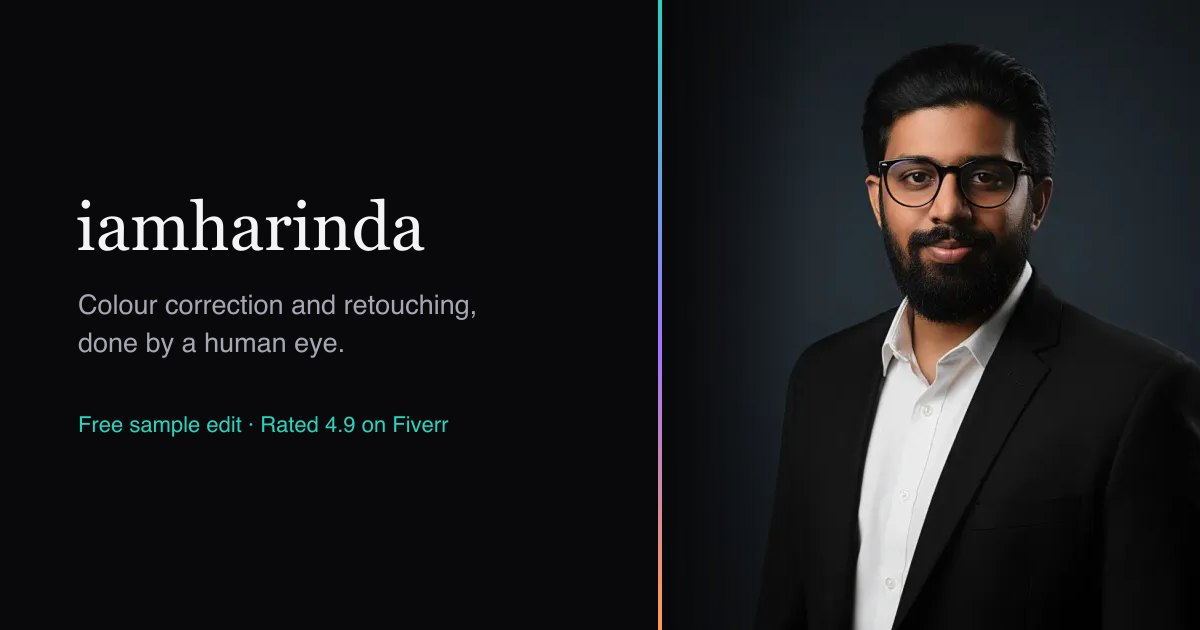
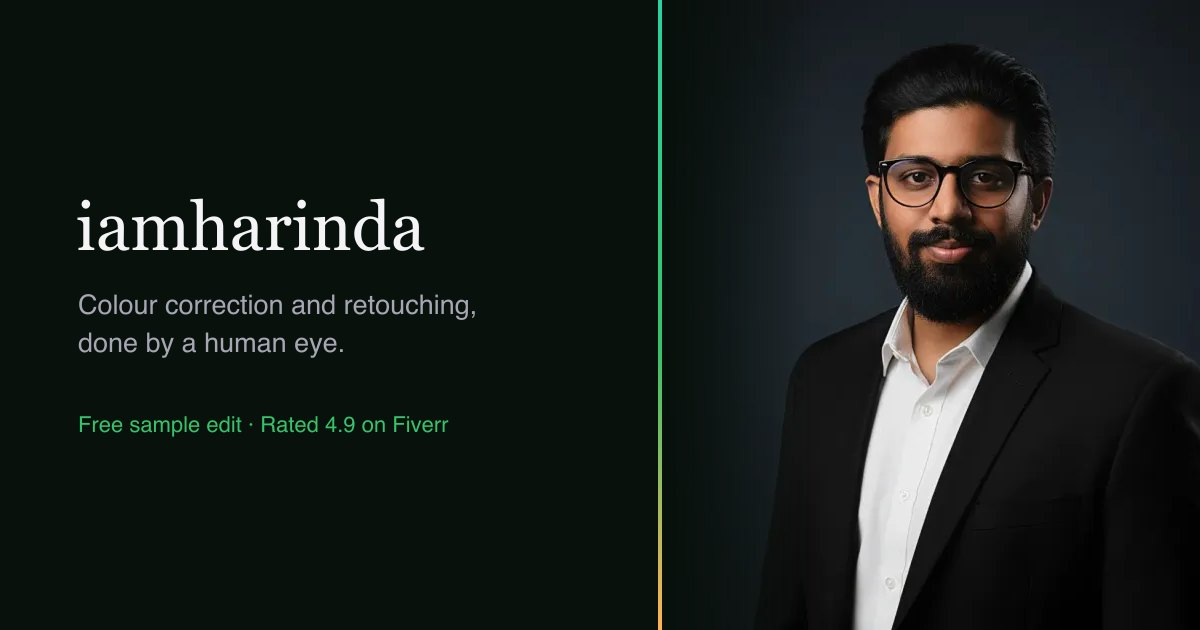
auto: og-default.jpg aurora.js

Changed region(s): [[0.5242, 0.0302, 0.555, 0.9349], [0.0617, 0.6635, 0.37, 0.6937]]

diff --git a/src/scripts/aurora.js b/src/scripts/aurora.js
@@ -1,10 +1,28 @@
-/* WebGL background — a slow flowing "silk" shader in green, in the spirit of
-   reactbits.dev's Silk component (smooth satin folds, soft light). No library.
-   Falls back to the CSS gradient on #bg when WebGL is unavailable, and renders a
-   single still frame when the viewer prefers reduced motion. ~2 KB gzipped. */
+/* WebGL background — reactbits "ColorBends": slow diagonal bands of one colour
+   flowing over near-black, faded toward the top. No library. Falls back to the
+   CSS gradient on #bg when WebGL is unavailable, and renders one still frame
+   when the viewer prefers reduced motion. ~2 KB gzipped.
+
+   Params mirror the reactbits <ColorBends> props — edit here: */
+const CB = {
+  color: "#A855F7", // base colour
+  speed: 0.1,
+  frequency: 1.2,
+  noise: 0.06,
+  bandWidth: 0.4,
+  rotation: 45, // degrees
+  fadeTop: 0.95,
+  iterations: 2,
+  intensity: 1.1,
+};
 
 const canvas = document.getElementById("bg");
 if (canvas) init(canvas);
+
+function hexToVec3(hex) {
+  const n = parseInt(hex.replace("#", ""), 16);
+  return [((n >> 16) & 255) / 255, ((n >> 8) & 255) / 255, (n & 255) / 255];
+}
 
 function init(cv) {
   const gl =
